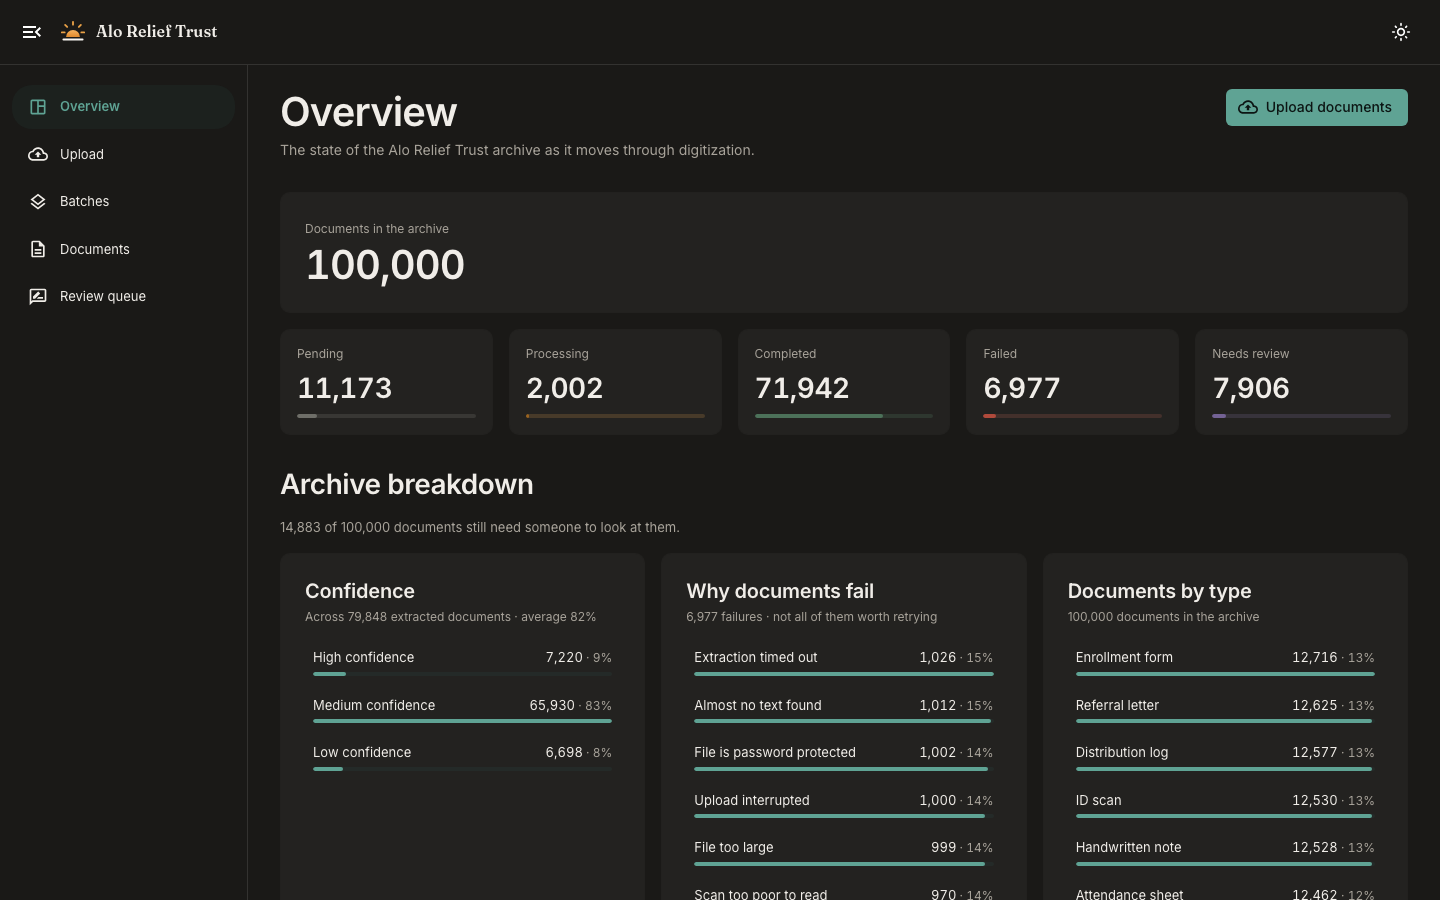
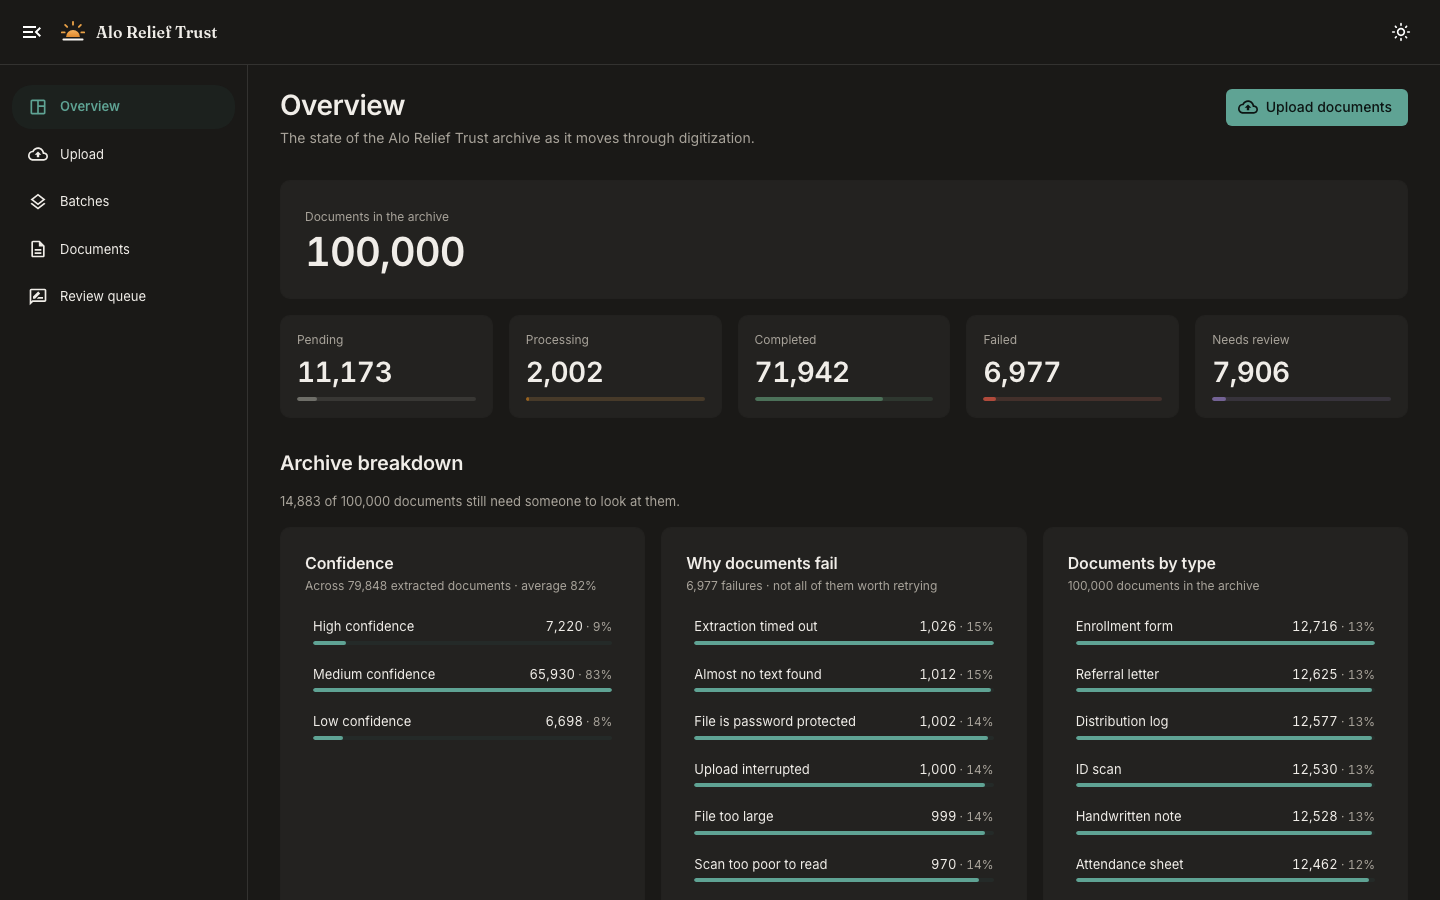
docs: record the compact scale, and recapture at the new sizes
Names the three chrome sizes and why figures have their own two.

diff --git a/README.md b/README.md
@@ -439,8 +439,14 @@ identifiers, counts and timestamps so numbers do not jitter as they tick up. Fra
 loaded and appears in exactly one place: the wordmark, which is a logo rather than a heading.
 One family for the interface means the hierarchy has to come from size, weight and tracking, so
 the headings carry negative letter-spacing that tightens as they grow — Inter left at its
-default spacing reads as loose at 40px beside 14px body text, which is how a single-family scale
-ends up looking accidental rather than chosen.
+default spacing reads as loose beside 14px body text, which is how a single-family scale ends up
+looking accidental rather than chosen.
+
+The chrome is deliberately quiet: 28px page title, 20px section heading, 16px card title. This
+is a screen worked for hours, and a banner across the top of it earns nothing. **Figures are not
+headings** and have their own two sizes — the archive total at 40px, the counts at 28px. They
+were set in `h1` and `h2` until the headings came down, which had tied the size of the number
+being read to the size of the label above it.
 
 Motion is slow, and only ever communicates a state change.
 
